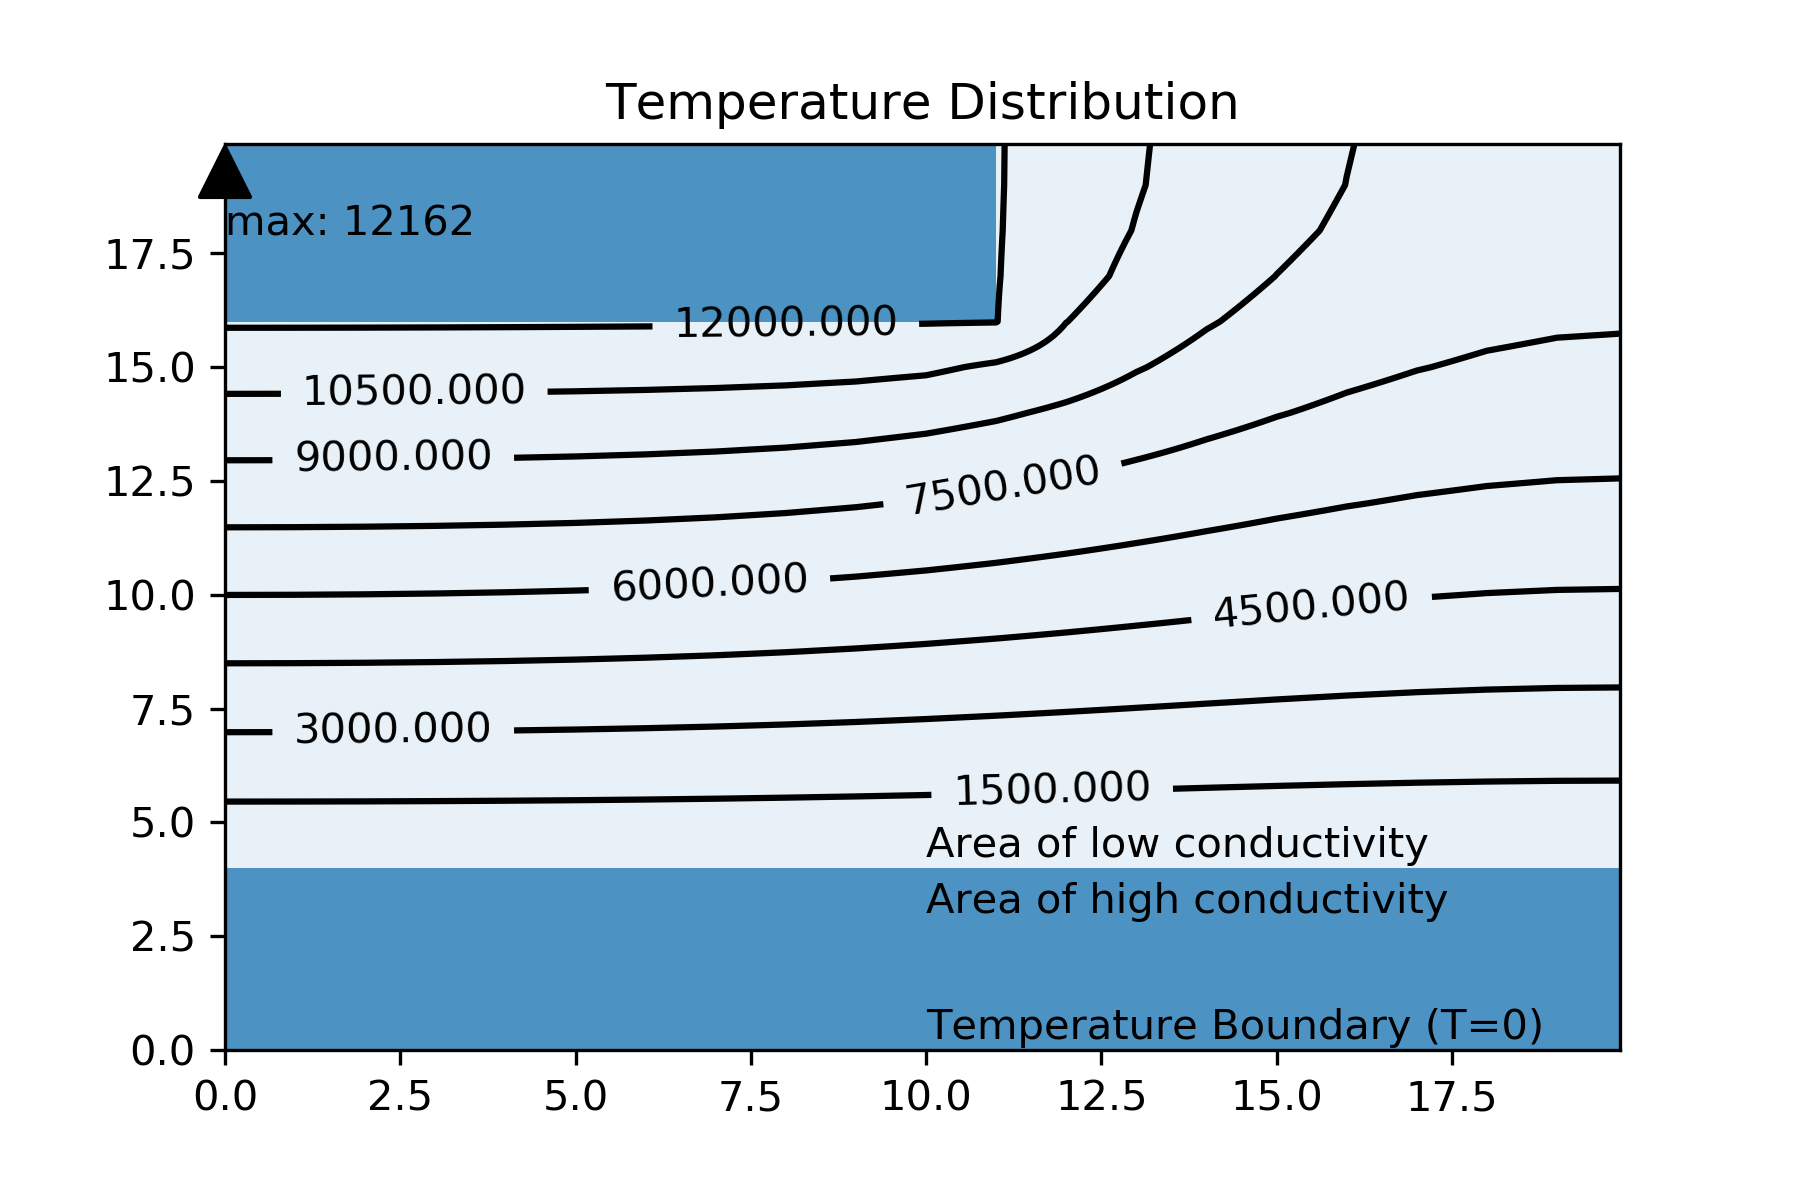
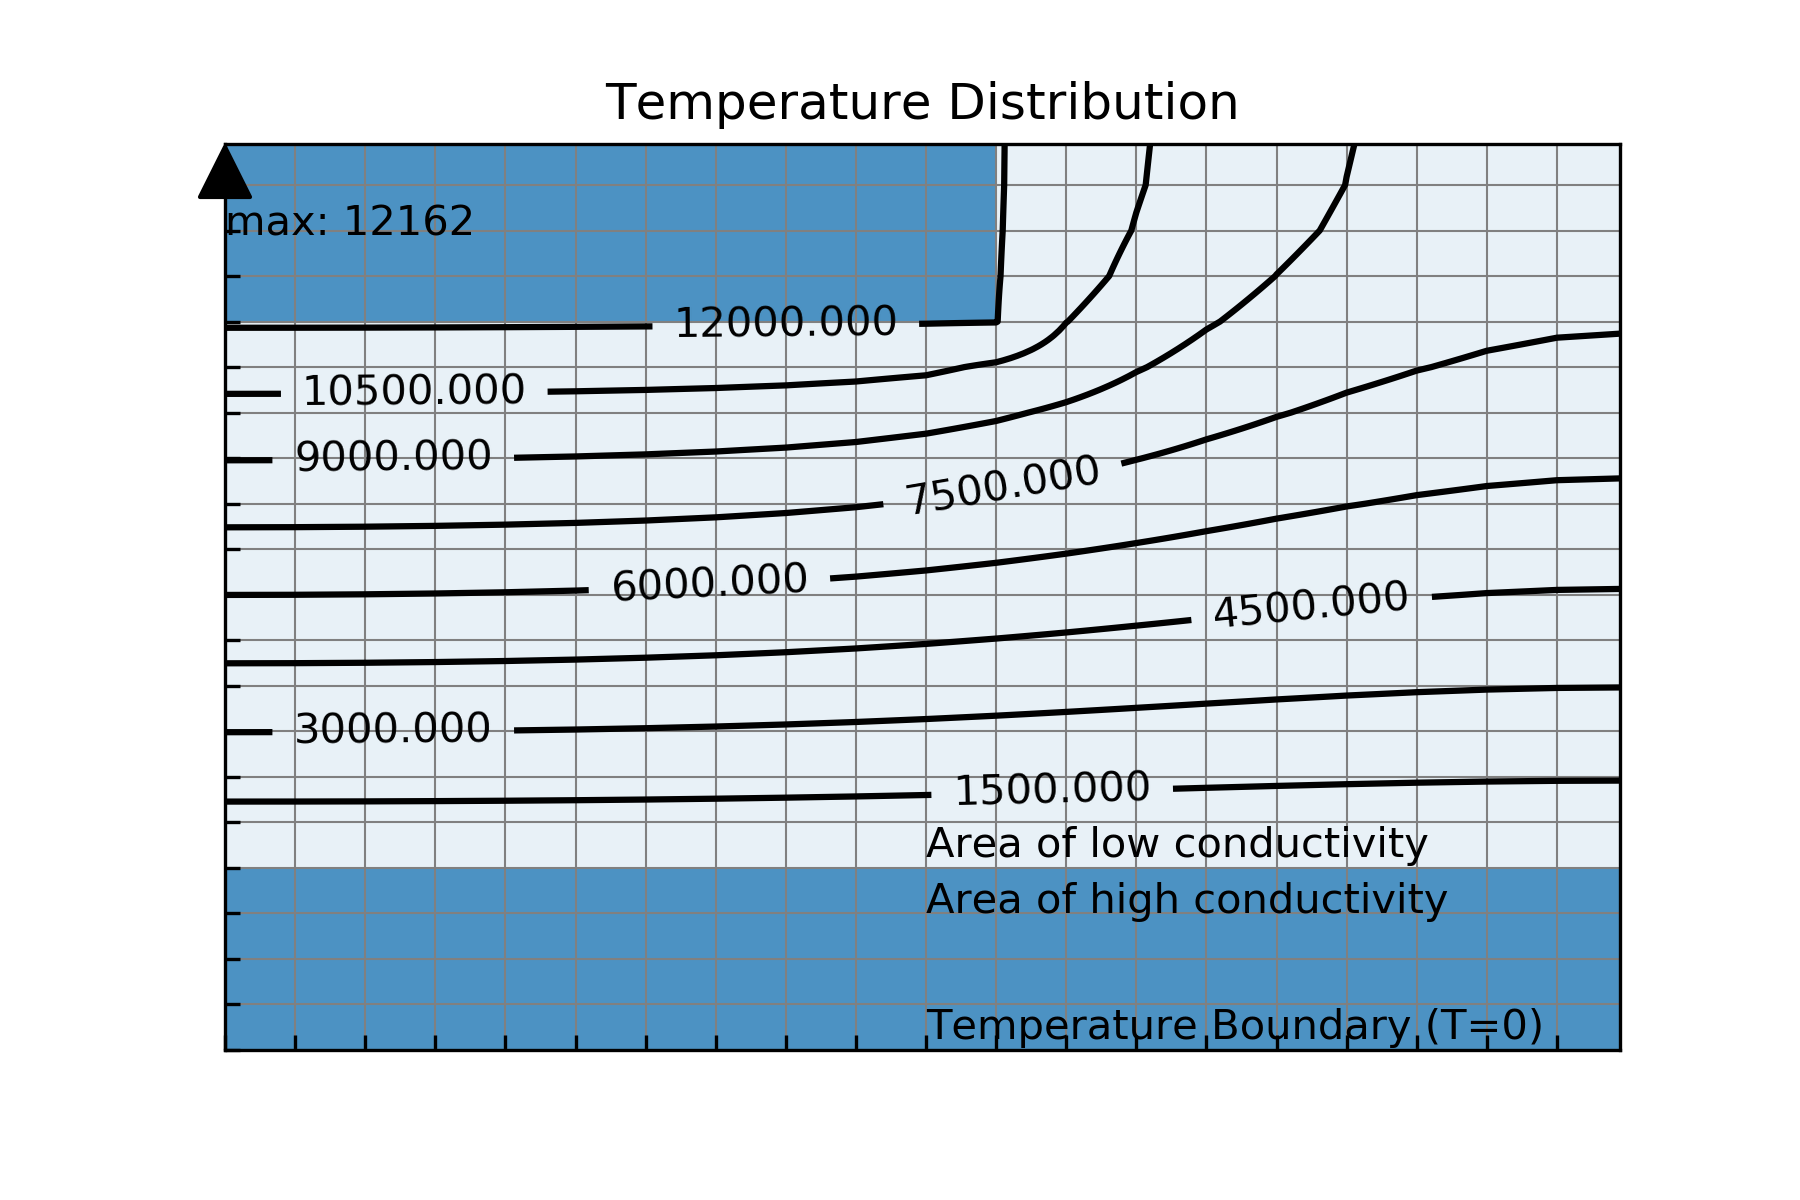
Modified the plot from poisson_fem.py

diff --git a/poisson_fem.py b/poisson_fem.py
@@ -284,6 +284,13 @@ class FiniteElement(object):
         cs = ax.contour(mx*5, my*5, mz, 8, colors='k')
         ax.clabel(cs, inline=1, fontsize=10)
         ax.set_title('Temperature Distribution')
+        ax.set_yticks(list(range(20)))
+        ax.set_xticks(list(range(20)))
+        
+        ax.grid(linestyle='-', linewidth='0.5', color='grey')
+        ax.set_yticklabels([])
+        ax.set_xticklabels([])
+        ax.tick_params(direction='in')
         
         # Annotate the point of maximum temperature.
         index_array = np.argmax(mz)
@@ -305,6 +312,8 @@ class FiniteElement(object):
             else:
                 ax.add_patch(patches.Rectangle((x, y), 1, 1, alpha=0.8))
         
+        
+        
         note = 'Area of low conductivity'
         ax.annotate(note, xy=(2*5, 0.85*5))
         note = 'Area of high conductivity'
@@ -319,10 +328,7 @@ class FiniteElement(object):
     def define_k_and_q(mesh):
         """
         `k` is the heat conductivity, and `q` is the heat source per unit area. 
-        In this code, each are constant for each element. In this example a 
-        heat source is placed on a single element at coordinate (1.1, 3.7).
-        The heat conductivity is given a value of 0.01 for y in (0.6, 3.2), 
-        otherwise a value of 1.
+        In this code, each are constant for each element.
         
         Parameters
         ----------

diff --git a/README.md b/README.md
@@ -2,7 +2,17 @@
 
 This project is a small example of coding the finite element method. The first 
 coded example is to determine the modal frequencies of a Timoshenko cantilever.
-The second solves Poisson't equation which models many physical phenomena. 
+The second solves Poisson's equation which models many physical phenomena. 
+
+
+## Timoshenko Beam
+
+The finite element method for a Timoshenko beam derives a mass and stiffness
+matrix which governs the behaviour of the beam. With no applied force there
+is a non-trival solution found from an eigenvalue problem. The coded example
+determines the first 5 modal frequencies of the beam from the eigenvalue 
+problem and compares them with the theoretical modal frequencies of an 
+Euler-Bernoulli beam.
 
 
 ## Poisson's Equation
@@ -13,9 +23,9 @@ used to determine the temperature field `T(x,y)` resulting from a set of
 heat sources `Q(x,y)` on a rectangular structure with varying heat conductivity
 `k(x,y)`.
 
-The coded example determines the temperature field over a rectangular domain
-due to a heat source placed on a single element. An area through the middle
-of the domain is given a lower heat conductivity. The solution is shown below.
+The coded example determines the temperature field over a rectangular domain 
+due to presence of heat sources in high conductivity areas seperated by
+insulating areas. The solution is shown below.
 
 ![Solution of Poisson's Equation](poisson.png)
 
